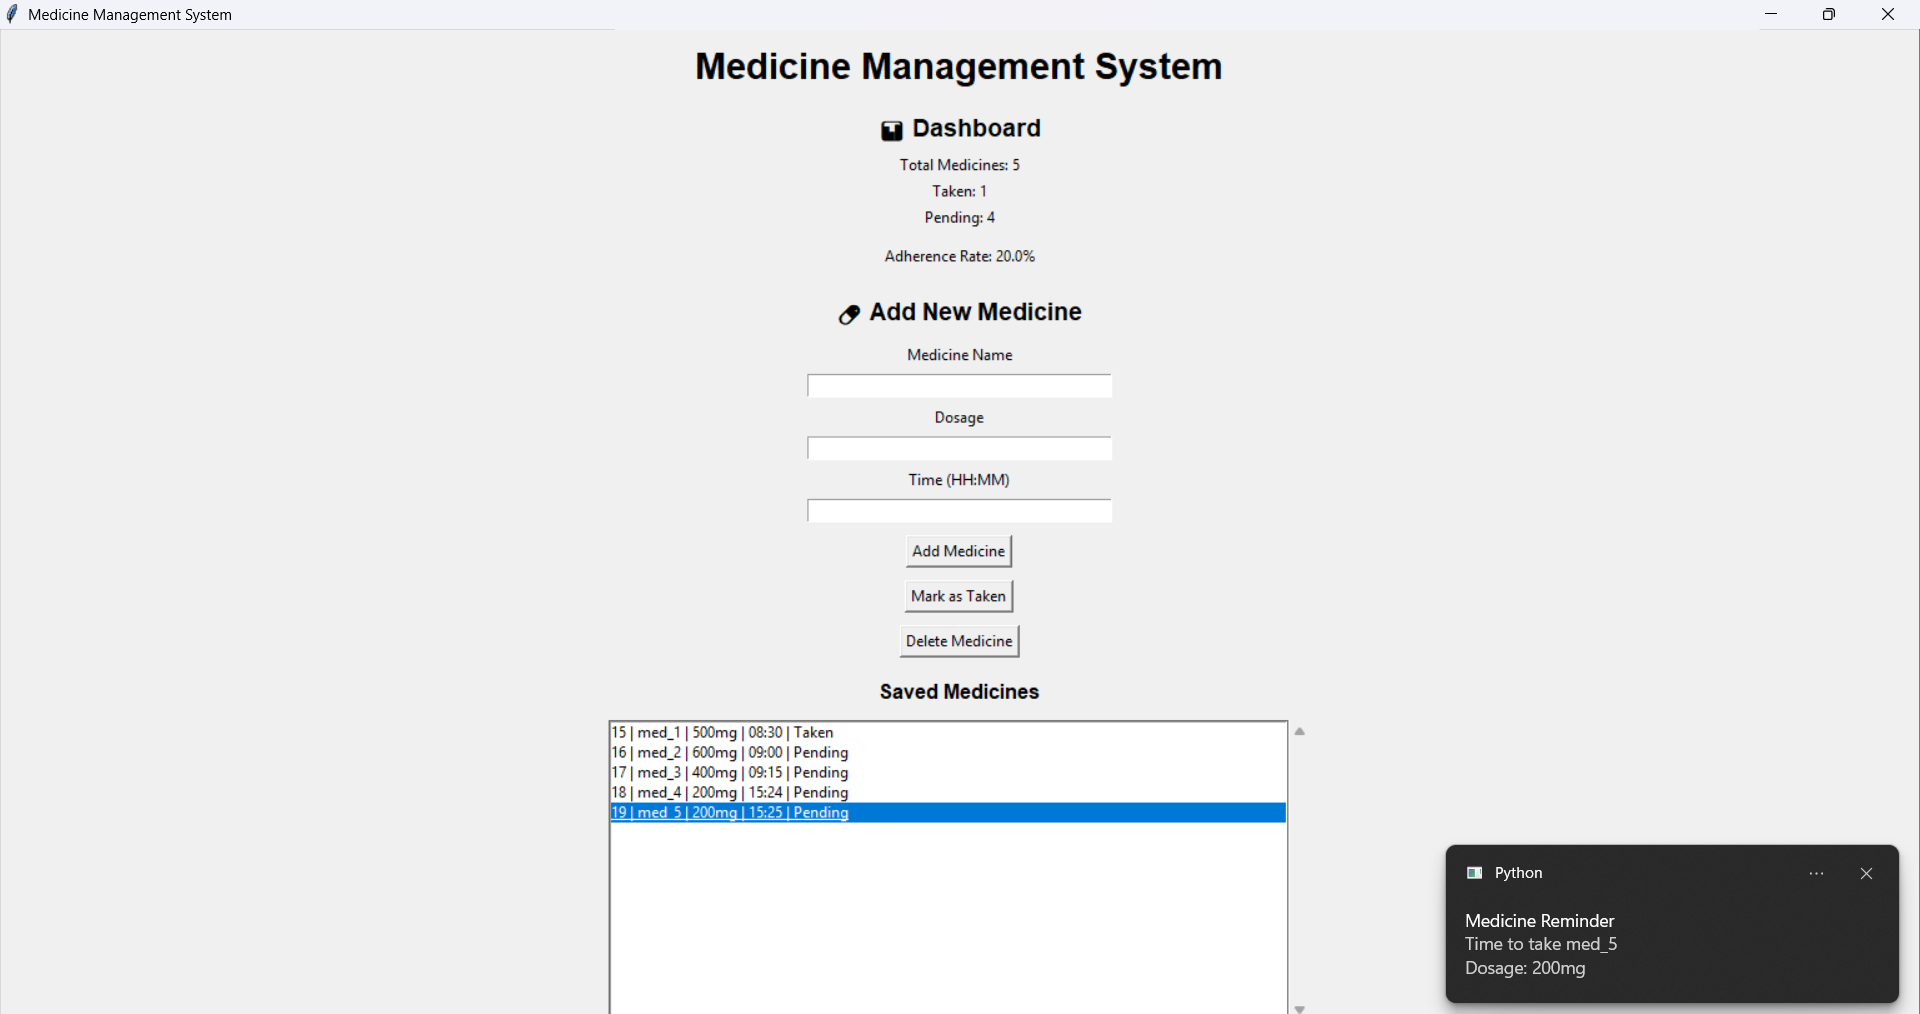
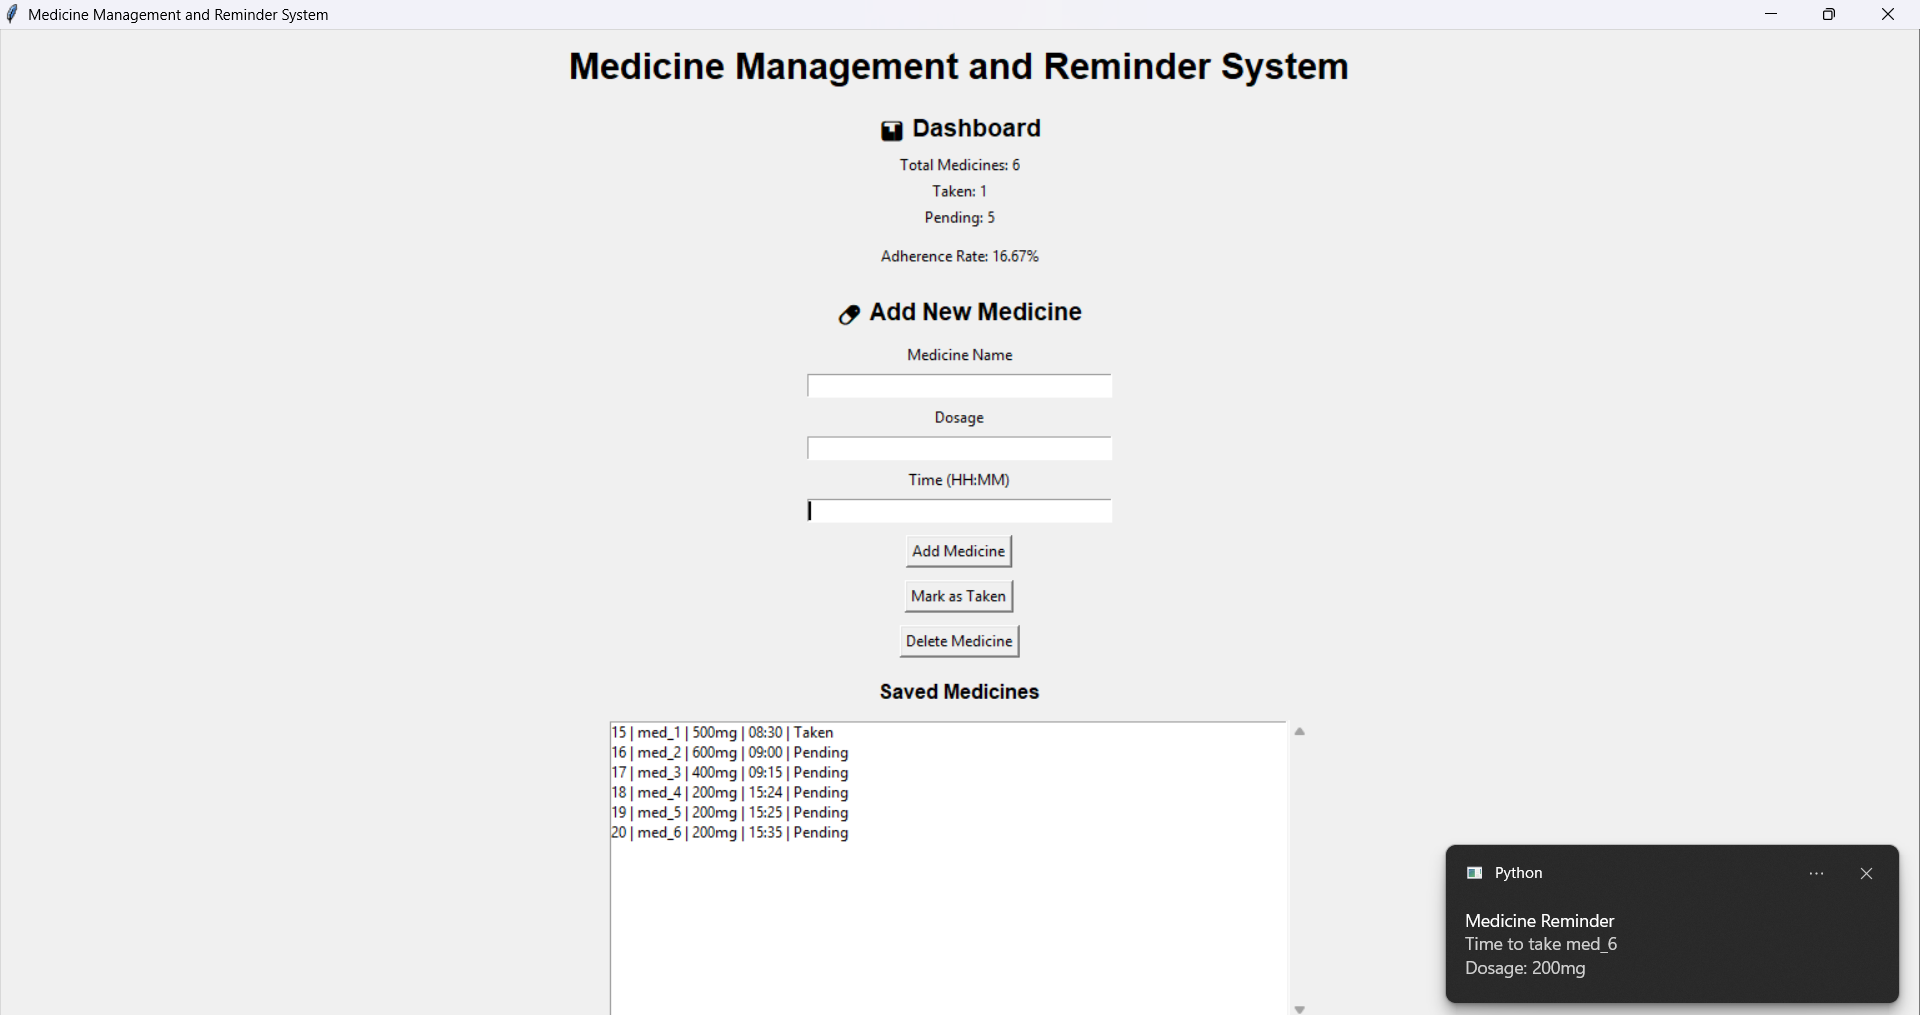
Added project screenshots

diff --git a/main.py b/main.py
@@ -193,12 +193,12 @@ def check_reminders():
 
 root = tk.Tk()
 
-root.title("Medicine Management System")
+root.title("Medicine Management and Reminder System")
 root.geometry("900x750")
 
 title = tk.Label(
     root,
-    text="Medicine Management System",
+    text="Medicine Management and Reminder System",
     font=("Arial", 22, "bold")
 )
 title.pack(pady=10)